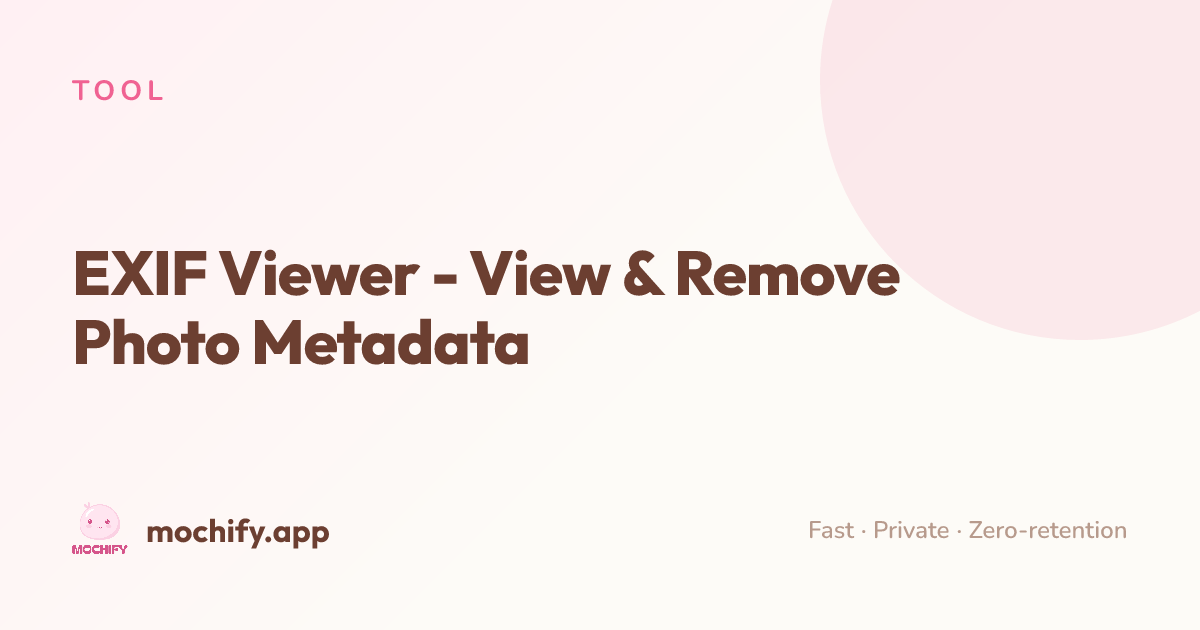
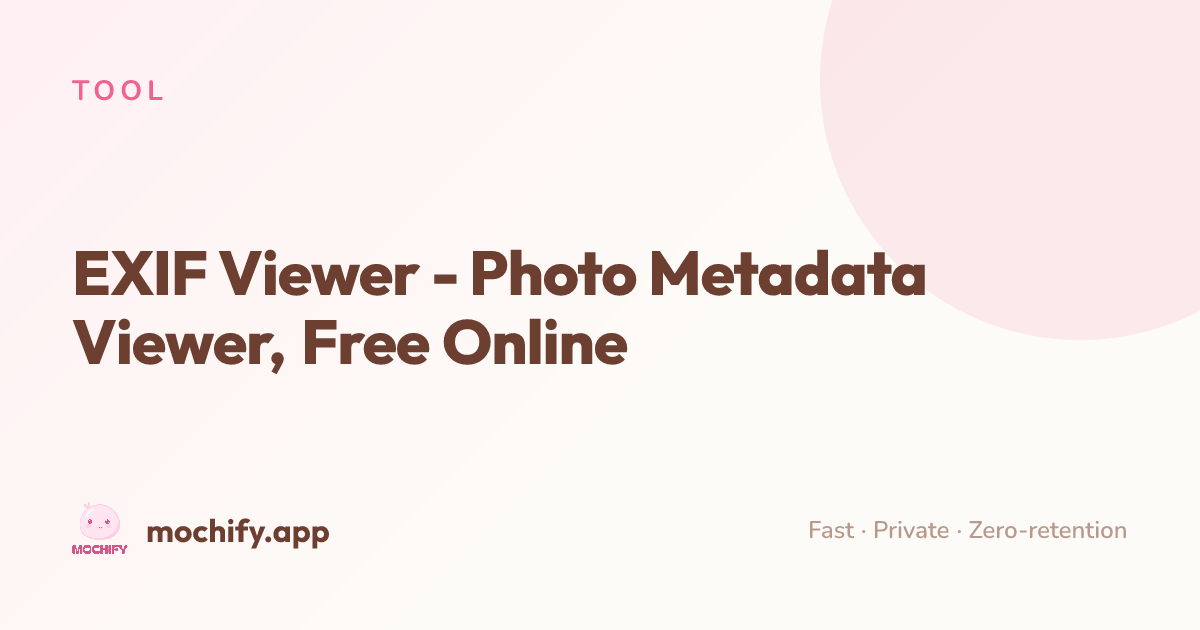
EXIF pages: key elements, headings, FAQ and inbound links (content-ops handoff)
Handoff 2026-11-18-exif-pages-key-elements-and-inbound-links:
- Remover: title "Photo Metadata Remover, No Upload", new description, lede,
  four H2s, two wording fixes, three FAQ entries (FAQPage 10).
- Viewer: title "Photo Metadata Viewer, Free Online", new description, lede,
  three H2s, four FAQ entries first (FAQPage 10).
- "Other" section blurb says "this tool" (shared by both pages).
- Inbound links from remove-metadata-from-photo (2), privacy-image-optimization,
  blur-faces-license-plate-ai-assistant and exif-data-risks-image-compression-2026;
  Updated date and dateModified bumped to 2026-11-19 on all four.
- OG card titles follow the new page titles.

Changed region(s): [[0.0617, 0.3921, 0.7708, 0.6032]]

diff --git a/src/routes/solutions/exif-remover/+page.svelte b/src/routes/solutions/exif-remover/+page.svelte
@@ -13,12 +13,24 @@
 	// these two pages only, and the batch ceiling is stated, not "no limits".
 
 	const metaDescription =
-		'Remove EXIF data, GPS location and AI labels from your photos, right in your browser. Nothing is uploaded and nothing is recompressed. Free, no signup.';
+		'Free online EXIF remover: strip metadata, GPS location and AI labels from your photos in your browser. Nothing is uploaded or recompressed. No signup.';
 
 	const faqs: FaqItem[] = [
 		{
 			q: 'Are my photos uploaded?',
-			a: 'No. The photos are read and cleaned in your browser, on your device. No part of a file and nothing read from it is sent to Mochify or anywhere else, which is also why there is no account and no allowance.'
+			a: 'No. The photos are read and cleaned in your browser, on your device. No part of a file and nothing read from it is sent to Mochify or anywhere else, which is also why there is no signup and no monthly allowance.'
+		},
+		{
+			q: 'Is this EXIF remover safe to use?',
+			a: 'Your photos never leave your device. The page reads and cleans them in your browser and sends no part of a file anywhere. The picture itself is not changed, and your original files stay as they are: you download cleaned copies with "-clean" added to the name.'
+		},
+		{
+			q: 'Is the EXIF remover free?',
+			a: 'Yes. It is free with no signup, and because nothing is uploaded there is no monthly allowance to use up. You can clean up to 200 photos or 2 GB in one batch and run as many batches as you like.'
+		},
+		{
+			q: 'Should I remove EXIF data before sharing a photo?',
+			a: 'Remove it when the photo is going anywhere public, or to someone you would not give your address to. A phone photo usually records where it was taken, when, and on which device. Some apps strip this when you post and some do not, so cleaning the file first is the only way to be sure. Keep the metadata on your own archive copies: dates and locations are what let you search them later.'
 		},
 		{
 			q: 'Does removing EXIF data reduce the quality?',
@@ -75,7 +87,7 @@
 </script>
 
 <svelte:head>
-	<title>EXIF Remover - Remove Photo Metadata, No Upload | Mochify</title>
+	<title>EXIF Remover - Photo Metadata Remover, No Upload | Mochify</title>
 	<meta name="description" content={metaDescription} />
 	<meta property="og:description" content={metaDescription} />
 	<meta name="twitter:description" content={metaDescription} />
@@ -94,9 +106,10 @@
 			>
 		</h1>
 		<p class="mx-auto max-w-2xl text-lg leading-relaxed font-medium text-balance text-cocoa-deep">
-			Remove the location, camera details, dates, names and AI labels stored in your photos, many at
-			a time. Everything happens in your browser: your photos are never uploaded and the picture
-			itself is not recompressed. To see what one photo holds first, use the
+			This EXIF remover strips the metadata from your photos, one or 200 at a time: the EXIF data,
+			GPS location, camera details, dates, names and AI labels. Everything happens in your browser:
+			your photos are never uploaded and the picture itself is not recompressed. To see what one
+			photo holds first, use the
 			<a href="/solutions/exif-viewer" class={linkClass}>EXIF viewer</a>.
 		</p>
 	</div>
@@ -122,7 +135,7 @@
 	</section>
 
 	<section class="mx-auto mt-16 max-w-4xl space-y-4">
-		<h2 class="text-2xl font-bold text-cocoa-ink">What gets removed</h2>
+		<h2 class="text-2xl font-bold text-cocoa-ink">What metadata the EXIF remover takes out</h2>
 		<dl class="space-y-3">
 			{#each SECTIONS as s (s.id)}
 				<div>
@@ -150,7 +163,7 @@
 	</section>
 
 	<section class="mx-auto mt-16 max-w-4xl space-y-4">
-		<h2 class="text-2xl font-bold text-cocoa-ink">AI labels and Content Credentials</h2>
+		<h2 class="text-2xl font-bold text-cocoa-ink">Remove AI metadata and Content Credentials</h2>
 		<p class="leading-relaxed text-cocoa-deep">
 			Many AI image tools record how a picture was made: Content Credentials (C2PA) manifests,
 			AI-generation fields in XMP, and in PNG files the prompt and settings as text. These are
@@ -160,7 +173,9 @@
 	</section>
 
 	<section class="mx-auto mt-16 max-w-4xl space-y-4">
-		<h2 class="text-2xl font-bold text-cocoa-ink">iPhone, HEIC and camera files</h2>
+		<h2 class="text-2xl font-bold text-cocoa-ink">
+			Remove EXIF data from iPhone HEIC and camera HIF files
+		</h2>
 		<p class="leading-relaxed text-cocoa-deep">
 			iPhone HEIC photos and HIF files from Fujifilm, Canon and Sony cameras are cleaned in place:
 			the metadata is blanked where it sits, so the photo stays a HEIC or HIF, opens in the same
@@ -170,7 +185,7 @@
 	</section>
 
 	<section class="mx-auto mt-16 max-w-4xl space-y-4">
-		<h2 class="text-2xl font-bold text-cocoa-ink">One photo at a time</h2>
+		<h2 class="text-2xl font-bold text-cocoa-ink">View a photo's EXIF data first</h2>
 		<p class="leading-relaxed text-cocoa-deep">
 			The <a href="/solutions/exif-viewer" class={linkClass}>EXIF viewer</a> shows every value in a
 			single photo, marks each one by how much it says about you, and lets you remove only the

diff --git a/src/routes/solutions/exif-viewer/+page.svelte b/src/routes/solutions/exif-viewer/+page.svelte
@@ -13,9 +13,25 @@
 	// metadata), and "in your browser" belongs on these pages only.
 
 	const metaDescription =
-		'See the EXIF data hidden in a photo: location, camera, dates and more. Remove the parts you choose in your browser. Nothing is uploaded. Free, no signup.';
+		'View EXIF data online: see the location, camera, dates and AI labels hidden in a photo, then remove what you choose. Nothing is uploaded. Free, no signup.';
 
 	const faqs: FaqItem[] = [
+		{
+			q: 'How can I view the EXIF data of a photo?',
+			a: 'Drop the photo on the box at the top of this page, or tap it to pick one from your phone. The viewer lists everything the file holds, grouped into location, camera, dates, author, software, AI labels and the embedded thumbnail, with each value in plain words. Nothing is uploaded.'
+		},
+		{
+			q: 'How do I find the date a photo was taken?',
+			a: 'Open the Date and time section. It shows when the photo was taken, when it was digitized and when the file was last changed. If the section is missing, the file carries no date, which is usual for screenshots and for photos saved from social networks. A date stored in metadata can be edited, so treat it as a clue, not as proof.'
+		},
+		{
+			q: 'Can I see where a photo was taken?',
+			a: 'Yes, if the camera or phone saved a location. The Location section shows the coordinates, with a link to open them in a map. The viewer does not load a map itself, so the location is not sent to anyone unless you click that link.'
+		},
+		{
+			q: 'Can I edit EXIF data with this tool?',
+			a: 'No. The viewer reads metadata and removes the sections you choose. It does not change a date, add a copyright line or rewrite any value.'
+		},
 		{
 			q: 'Is my photo uploaded?',
 			a: 'No. The photo is read in your browser, on your device. No part of the file and nothing read from it is sent to Mochify or anywhere else.'
@@ -71,7 +87,7 @@
 </script>
 
 <svelte:head>
-	<title>EXIF Viewer - View & Remove Photo Metadata Online | Mochify</title>
+	<title>EXIF Viewer - Photo Metadata Viewer, Free Online | Mochify</title>
 	<meta name="description" content={metaDescription} />
 	<meta property="og:description" content={metaDescription} />
 	<meta name="twitter:description" content={metaDescription} />
@@ -90,10 +106,10 @@
 			>
 		</h1>
 		<p class="mx-auto max-w-2xl text-lg leading-relaxed font-medium text-balance text-cocoa-deep">
-			See the metadata hidden in a photo: where it was taken, the camera and its settings, the
-			dates, who made it and any AI labels, grouped in plain sections. Remove the sections you
-			choose and download a clean copy. Everything happens in your browser: the photo is never
-			uploaded and the picture itself is not recompressed. For many photos at once, use the
+			View the EXIF data and other metadata hidden in a photo: where it was taken, the camera and
+			its settings, the dates, who made it and any AI labels, grouped in plain sections. Remove the
+			sections you choose and download a clean copy. Everything happens in your browser: the photo
+			is never uploaded and the picture itself is not recompressed. For many photos at once, use the
 			<a href="/solutions/exif-remover" class={linkClass}>EXIF remover</a>.
 		</p>
 	</div>
@@ -108,7 +124,7 @@
 	</p>
 
 	<section class="mx-auto mt-16 max-w-4xl space-y-4">
-		<h2 class="text-2xl font-bold text-cocoa-ink">How to read and remove a photo's metadata</h2>
+		<h2 class="text-2xl font-bold text-cocoa-ink">How to view EXIF data in a photo</h2>
 		<ol class="list-decimal space-y-2 pl-6 leading-relaxed text-cocoa-deep">
 			<li>Drop a photo on the box above, or tap it to pick one from your phone.</li>
 			<li>
@@ -123,7 +139,7 @@
 	</section>
 
 	<section class="mx-auto mt-16 max-w-4xl space-y-4">
-		<h2 class="text-2xl font-bold text-cocoa-ink">What each section means</h2>
+		<h2 class="text-2xl font-bold text-cocoa-ink">What metadata a photo holds</h2>
 		<dl class="space-y-3">
 			{#each SECTIONS as s (s.id)}
 				<div>
@@ -168,7 +184,7 @@
 	</section>
 
 	<section class="mx-auto mt-16 max-w-4xl space-y-4">
-		<h2 class="text-2xl font-bold text-cocoa-ink">Many photos at once</h2>
+		<h2 class="text-2xl font-bold text-cocoa-ink">Remove EXIF data from many photos at once</h2>
 		<p class="leading-relaxed text-cocoa-deep">
 			The <a href="/solutions/exif-remover" class={linkClass}>EXIF remover</a> takes up to 200 photos
 			in one drop, removes their metadata in one step, keeps the same essentials, and gives you the cleaned

diff --git a/src/routes/guides/remove-metadata-from-photo/+page.svelte b/src/routes/guides/remove-metadata-from-photo/+page.svelte
@@ -23,6 +23,7 @@
 		category: 'Data Privacy',
 		readTime: '28 min read',
 		date: 'November 17, 2026',
+		lastUpdated: 'November 19, 2026',
 		bylineNote:
 			'Figures come from six live API calls and an exiftool 12.76 run on November 9, 2026: what each built-in route leaves behind, and what a re-encode removes.'
 	};
@@ -150,6 +151,7 @@
 		url={pageUrl}
 		description={metadata.description}
 		datePublished="2026-11-17"
+		dateModified="2026-11-19"
 		article={{
 			about: [
 				'EXIF',
@@ -185,7 +187,8 @@
 			class="mt-5 h-1 w-16 rounded-full bg-gradient-to-r from-mochi-pink to-mochi-pink-soft"
 		></div>
 		<p class="mt-5 mb-0 text-sm font-bold text-cocoa-milk">
-			{metadata.readTime} · Published {metadata.date} · Mochify Engineering Team
+			{metadata.readTime} · Published {metadata.date} · Updated {metadata.lastUpdated} · Mochify Engineering
+			Team
 		</p>
 
 		<p class="article-intro mt-8 mb-0 text-xl leading-relaxed text-cocoa-deep opacity-90">
@@ -335,6 +338,11 @@
 					none, worked out from landmarks and your other photos; the info panel labels it as estimated.
 				</li>
 				<li>
+					<strong>Everything, in a browser:</strong> the Mochify
+					<a href="/solutions/exif-viewer">EXIF viewer</a> lists every block a photo holds, grouped in
+					plain sections, and reads the file on your device without uploading it.
+				</li>
+				<li>
 					<strong>Everything, on any computer:</strong>
 					<a href="https://exiftool.org/" target="_blank" rel="noopener noreferrer">exiftool</a> is
 					the reference reader. <code>exiftool -a -G1 -s photo.jpg</code> lists every tag with the
@@ -424,8 +432,8 @@
 				tells you Photos keeps the original data inside your library, so export a copy and check
 				that copy before you share it. Export with
 				<strong>File &gt; Export &gt; Export [N] Photos</strong>
-				to get a new JPEG, HEIC, TIFF or PNG (the export dialog in the macOS Tahoe 26 Photos guide
-				offers Photo Kind, JPEG Quality, Color Profile and Size).
+				to get a new JPEG, HEIC, TIFF or PNG (the export dialog in the macOS Tahoe 26 Photos guide offers
+				Photo Kind, JPEG Quality, Color Profile and Size).
 				<strong>File &gt; Export &gt; Export Unmodified Original</strong> does the opposite: it hands
 				you the original bytes with everything in them, so do not use it for a copy you mean to share
 				clean.
@@ -582,8 +590,10 @@
 			<p class="mb-4">
 				Writing a new file from the pixels is the one method that removes every block at once: EXIF,
 				GPS, maker note, thumbnail, XMP, IPTC, comments and Content Credentials. exiftool does it
-				without touching the pixels; a converter does it while compressing or resizing. Here is what
-				happens, measured.
+				without touching the pixels, and so does the Mochify
+				<a href="/solutions/exif-remover">EXIF remover</a>, which runs in your browser, uploads
+				nothing and keeps only what the photo needs to display correctly; a converter does it while
+				compressing or resizing. Here is what happens, measured.
 			</p>
 			<h3>What a re-encode removes</h3>
 			<p class="mb-4">

diff --git a/src/routes/guides/exif-data-risks-image-compression-2026/+page.svelte b/src/routes/guides/exif-data-risks-image-compression-2026/+page.svelte
@@ -14,7 +14,7 @@
         category: "Data Privacy",
         readTime: "15 min read",
         date: "February 13, 2026",
-        lastUpdated: "November 17, 2026"
+        lastUpdated: "November 19, 2026"
     };
 
     const related = [
@@ -117,7 +117,7 @@
         ],
         "image": "https://mochify.app/og/guides-exif-data-risks-image-compression-2026.png",
         "datePublished": "2026-02-13T12:00:00+00:00",
-        "dateModified": "2026-11-17T12:00:00+00:00"
+        "dateModified": "2026-11-19T12:00:00+00:00"
         }
     </script>
     <GuideSchema
@@ -125,7 +125,7 @@
         url="https://mochify.app/guides/exif-data-risks-image-compression-2026"
         description={metadata.description}
         datePublished="2026-02-13"
-        dateModified="2026-11-17"
+        dateModified="2026-11-19"
     />
 </svelte:head>
 
@@ -199,7 +199,7 @@
              </ul>
              <p class="mb-4">German courts have fined real estate photographers for sharing property photos containing precise GPS coordinates. The ruling made clear accidental leaks count as non-compliance.</p>
              <p class="mb-4">Mochify compression tool is hosted in Germany to uphold <a href="https://gdpr.eu">EUGDPR</a> standards, delivering these high-level safeguards to every user worldwide by default. UK users enjoy matching protections via the UK GDPR, which aligns closely with EU rules. Essentially, adhering to these strict standards and with a core philosophy surrounding privacy, benefits all our users worldwide.</p>
-             <p class="mb-4">Translation for photographers and agencies: If you're handling client images or user-generated content, failing to strip EXIF creates data residency liability. Mochify's in-memory processing guarantees zero disk retention and automatic metadata removal, keeping you compliant without extra steps.</p>
+             <p class="mb-4">Translation for photographers and agencies: If you're handling client images or user-generated content, failing to strip EXIF creates data residency liability. Mochify's in-memory processing guarantees zero disk retention and automatic metadata removal, keeping you compliant without extra steps. To strip the metadata without recompressing the photo at all, the <a href="/solutions/exif-remover">EXIF remover</a> does it in your browser.</p>
              <p class="mb-4">Beyond fines, EXIF leaks enable tangible harm:</p>
              <ul class="list-disc pl-6 mb-6 space-y-2 marker:text-mochi-pink">
                 <li><strong>Stalking/doxxing:</strong> A 2015 report documented domestic violence victims tracked through photo metadata shared on social media.</li>

diff --git a/src/routes/guides/privacy-image-optimization/+page.svelte b/src/routes/guides/privacy-image-optimization/+page.svelte
@@ -11,7 +11,7 @@
         category: "Data Privacy",
         readTime: "6 min read",
         datePublished: "February 5, 2026",
-        lastUpdated: "November 17, 2026"
+        lastUpdated: "November 19, 2026"
     };
 
     const related = [
@@ -85,7 +85,7 @@
         ],
         "image": "https://mochify.app/og/guides-privacy-image-optimization.png",
         "datePublished": "2026-02-05T12:00:00+00:00",
-        "dateModified": "2026-11-17T12:00:00+00:00"
+        "dateModified": "2026-11-19T12:00:00+00:00"
         }
     </script>
     <GuideSchema
@@ -93,7 +93,7 @@
         url="https://mochify.app/guides/privacy-image-optimization"
         description="Secure your images with Zero-Retention optimization. The only way to ensure 100% data privacy in 2026. Fast, private, and storage-free image processing."
         datePublished="2026-02-05"
-        dateModified="2026-11-17"
+        dateModified="2026-11-19"
     />
 </svelte:head>
 
@@ -259,7 +259,7 @@
                 </li>
                 <li class="flex gap-3">
                     <span class="text-mochi-pink font-bold">·</span>
-                    <span><strong>Metadata Removal: </strong> Does the output drop the EXIF block, GPS included, by default? Our guide to <a href="/guides/remove-metadata-from-photo">removing metadata from a photo</a> shows what each device's built-in route leaves behind.</span>
+                    <span><strong>Metadata Removal: </strong> Does the output drop the EXIF block, GPS included, by default? Our guide to <a href="/guides/remove-metadata-from-photo">removing metadata from a photo</a> shows what each device's built-in route leaves behind. To check a file yourself, the <a href="/solutions/exif-viewer">EXIF viewer</a> shows everything a photo holds without uploading it.</span>
                 </li>
             </ul>
         </section>

diff --git a/src/lib/data/guides.ts b/src/lib/data/guides.ts
@@ -226,7 +226,8 @@ export const guides: Guide[] = [
 		url: '/guides/remove-metadata-from-photo',
 		category: 'Data Privacy',
 		readTime: '28 min read',
-		date: 'November 17, 2026'
+		date: 'November 17, 2026',
+		lastUpdated: 'November 19, 2026'
 	},
 	{
 		title: 'What Is a JFIF File? Why Windows Saves .jfif, and How to Get a JPG or PNG Back',
@@ -495,7 +496,7 @@ export const guides: Guide[] = [
 		category: 'Data Privacy',
 		readTime: '6 min read',
 		date: 'February 5, 2026',
-		lastUpdated: 'November 17, 2026'
+		lastUpdated: 'November 19, 2026'
 	},
 	{
 		title: 'How to Fix "Improve Image Delivery" in WordPress Without a Plugin',
@@ -535,7 +536,7 @@ export const guides: Guide[] = [
 		category: 'Data Privacy',
 		readTime: '15 min read',
 		date: 'February 13, 2026',
-		lastUpdated: 'November 17, 2026'
+		lastUpdated: 'November 19, 2026'
 	},
 	{
 		title: 'The History of Image Compression: From BMP to AVIF & Jpegli (2026 Guide)',
@@ -712,7 +713,7 @@ export const guides: Guide[] = [
 		category: 'AI & Automation',
 		readTime: '22 min read',
 		date: 'October 16, 2026',
-		lastUpdated: 'October 20, 2026'
+		lastUpdated: 'November 19, 2026'
 	},
 	{
 		title: 'Can ChatGPT Compress a Photo? We Measured What Comes Back',
@@ -734,7 +735,8 @@ export const guides: Guide[] = [
 		lastUpdated: 'October 31, 2026'
 	},
 	{
-		title: 'The HTML <picture> Tag (Picture Element): Format Fallbacks, Art Direction and the 2026 Source Order',
+		title:
+			'The HTML <picture> Tag (Picture Element): Format Fallbacks, Art Direction and the 2026 Source Order',
 		description:
 			'The HTML picture tag, explained: AVIF, WebP and JPEG fallbacks in the right order, art direction, dark mode, and the four rules that make it render.',
 		url: '/guides/html-picture-tag',

diff --git a/src/routes/guides/blur-faces-license-plate-ai-assistant/+page.svelte b/src/routes/guides/blur-faces-license-plate-ai-assistant/+page.svelte
@@ -23,7 +23,7 @@
 		category: 'AI & Automation',
 		readTime: '22 min read',
 		date: 'October 16, 2026',
-		lastUpdated: 'October 20, 2026',
+		lastUpdated: 'November 19, 2026',
 		bylineNote:
 			'Written from two real redaction runs on October 16, 2026: a parked car with two plates, and a fifteen-person group photo where the detector found twelve.'
 	};
@@ -157,7 +157,7 @@
 		url={pageUrl}
 		description={metadata.description}
 		datePublished="2026-10-16"
-		dateModified="2026-10-20"
+		dateModified="2026-11-19"
 		article={{
 			about: ['image redaction', 'face blurring', 'license plates', 'EXIF metadata', 'MCP server', 'Mochify API'],
 			keywords
@@ -256,7 +256,7 @@
 				>). JPEGs have a quieter version of the same problem: the EXIF block usually holds a
 				thumbnail of the picture as it was when the camera saved it, and an editor that blurs the
 				main image and leaves the thumbnail alone has hidden nothing from anyone who opens the file
-				in a metadata viewer.
+				in <a href="/solutions/exif-viewer">a metadata viewer</a>.
 			</p>
 			<p class="mb-4">
 				So "hide this" has three parts: replace the pixels with something that carries no

diff --git a/src/lib/og/cards.js b/src/lib/og/cards.js
@@ -729,12 +729,12 @@ export const cards = [
 	{
 		path: '/solutions/exif-viewer',
 		eyebrow: 'TOOL',
-		title: 'EXIF Viewer - View & Remove Photo Metadata'
+		title: 'EXIF Viewer - Photo Metadata Viewer, Free Online'
 	},
 	{
 		path: '/solutions/exif-remover',
 		eyebrow: 'TOOL',
-		title: 'EXIF Remover - Remove Photo Metadata, No Upload'
+		title: 'EXIF Remover - Photo Metadata Remover, No Upload'
 	},
 	{
 		path: '/solutions/svg-to-webp',

diff --git a/src/lib/exif/sections.ts b/src/lib/exif/sections.ts
@@ -45,7 +45,7 @@ export const SECTIONS: { id: SectionId; title: string; blurb: string }[] = [
 	{
 		id: 'other',
 		title: 'Other',
-		blurb: 'Comments, captions, keywords and any block this viewer does not recognize.'
+		blurb: 'Comments, captions, keywords and any block this tool does not recognize.'
 	}
 ];
 
